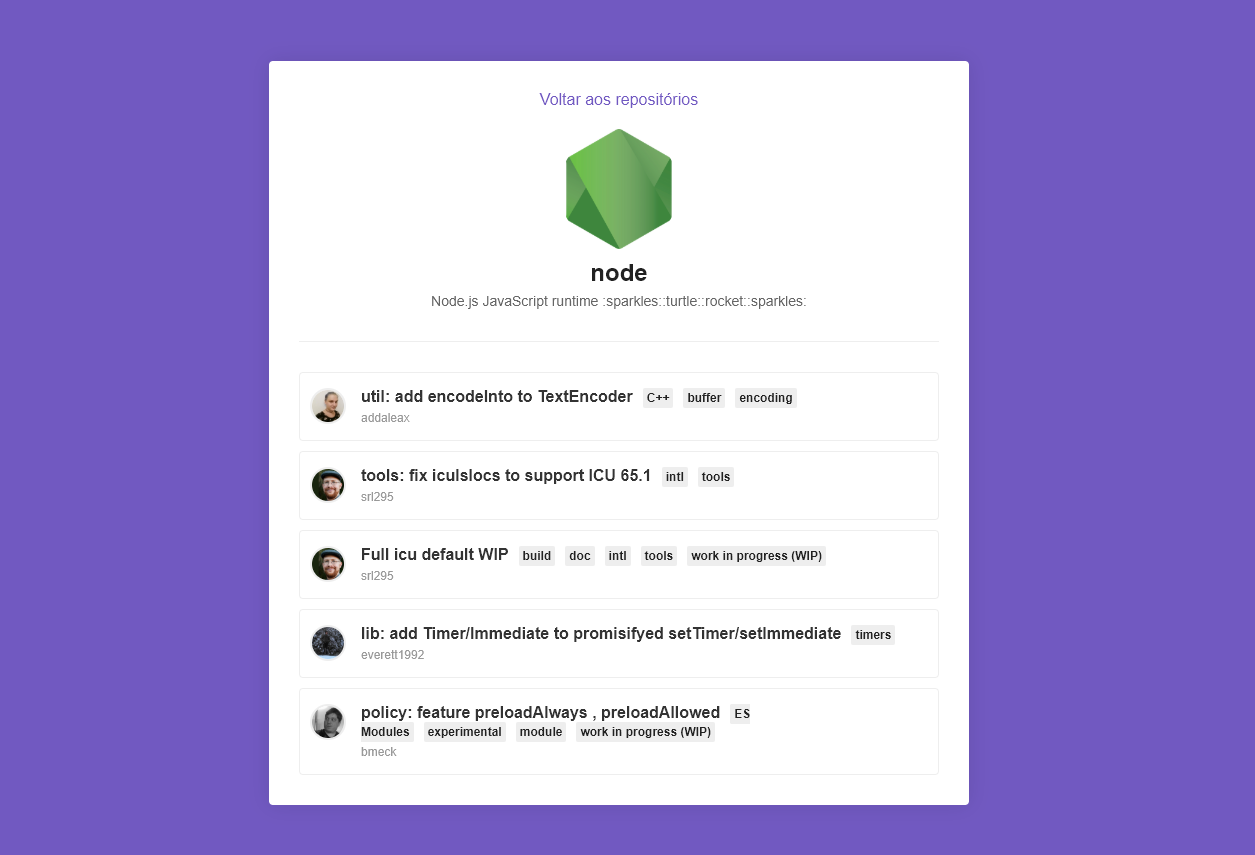
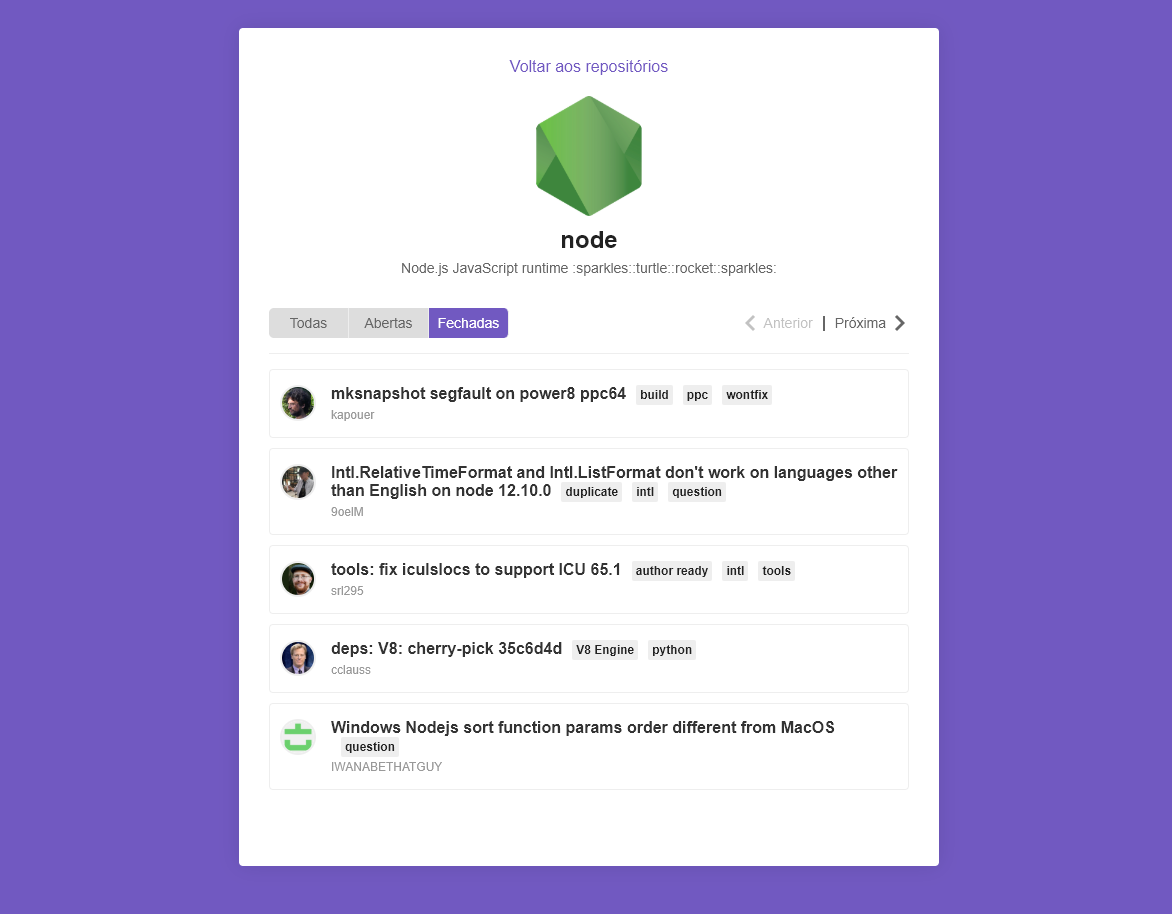
adicionado paginação e filtro de situação da issue

Changed region(s): [[0.1843, 0.0304, 0.7986, 0.9731]]

diff --git a/src/pages/Repository/index.js b/src/pages/Repository/index.js
@@ -1,24 +1,40 @@
 import React, { Component } from 'react';
 import { Link } from 'react-router-dom';
 import PropTypes from 'prop-types';
+import { FaChevronLeft, FaChevronRight } from 'react-icons/fa';
 import api from '../../services/api';
 
-import { Loading, Owner, IssueList } from './styles';
+import { Loading, Owner, IssueList, Pagination } from './styles';
 import Container from '../../components/Container';
+import RadioButton from '../../components/RadioButton';
 
 class Repository extends Component {
     constructor(props) {
         super(props);
 
+        this.handleStatus = this.handleStatus.bind(this);
+        this.loadIssues = this.loadIssues.bind(this);
+        this.previousPage = this.previousPage.bind(this);
+        this.nextPage = this.nextPage.bind(this);
+
         this.state = {
             repository: {},
             issues: {},
             loading: true,
+            status: 'closed',
+            page: 1,
         };
     }
 
-    async componentDidMount() {
+    componentDidMount() {
+        this.loadIssues();
+    }
+
+    async loadIssues() {
         const { match } = this.props;
+        const { status, page } = this.state;
+
+        this.setState({ loading: true });
 
         const repoName = decodeURIComponent(match.params.repository);
 
@@ -26,7 +42,8 @@ class Repository extends Component {
             api.get(`/repos/${repoName}`),
             api.get(`/repos/${repoName}/issues`, {
                 params: {
-                    state: 'open',
+                    state: status,
+                    page,
                     per_page: 5,
                 },
             }),
@@ -39,13 +56,37 @@ class Repository extends Component {
         });
     }
 
+    handleStatus(btn) {
+        this.setState(
+            {
+                status: btn.target.id,
+            },
+            this.loadIssues
+        );
+    }
+
+    previousPage() {
+        const { page } = this.state;
+
+        this.setState({ page: page - 1 }, this.loadIssues);
+    }
+
+    nextPage() {
+        const { page } = this.state;
+
+        this.setState({ page: page + 1 }, this.loadIssues);
+    }
+
     render() {
-        const { repository, issues, loading } = this.state;
+        const { repository, issues, loading, status, page } = this.state;
 
         if (loading) {
-            return <Loading>Carregando...</Loading>;
+            return (
+                <Container>
+                    <Loading>Carregando...</Loading>
+                </Container>
+            );
         }
-        console.log(issues);
 
         return (
             <Container>
@@ -58,6 +99,43 @@ class Repository extends Component {
                     <h1>{repository.data.name}</h1>
                     <p>{repository.data.description}</p>
                 </Owner>
+                <div id="toolbar">
+                    <RadioButton active={status}>
+                        <button
+                            onClick={this.handleStatus}
+                            type="button"
+                            id="all"
+                        >
+                            Todas
+                        </button>
+                        <button
+                            onClick={this.handleStatus}
+                            type="button"
+                            id="open"
+                        >
+                            Abertas
+                        </button>
+                        <button
+                            onClick={this.handleStatus}
+                            type="button"
+                            id="closed"
+                        >
+                            Fechadas
+                        </button>
+                    </RadioButton>
+                    <Pagination>
+                        <div disabled={page === 1} onClick={this.previousPage}>
+                            <FaChevronLeft />
+                            <span>Anterior</span>
+                        </div>
+                        <div id="pipe" />
+                        <div onClick={this.nextPage}>
+                            <span>Próxima</span>
+                            <FaChevronRight />
+                        </div>
+                    </Pagination>
+                </div>
+
                 <IssueList>
                     {issues.data.map(issue => (
                         <li key={String(issue.id)}>

diff --git a/src/pages/Repository/styles.js b/src/pages/Repository/styles.js
@@ -1,13 +1,13 @@
 import styled from 'styled-components';
 
 export const Loading = styled.div`
-    color: #fff;
+    color: #666;
     font-size: 30px;
     font-weight: bold;
     display: flex;
     justify-content: center;
     align-items: center;
-    height: 100vh;
+    height: 100%;
 `;
 
 export const Owner = styled.header`
@@ -43,10 +43,12 @@ export const Owner = styled.header`
 `;
 
 export const IssueList = styled.div`
-    padding-top: 30px;
-    margin-top: 30px;
+    padding-top: 15px;
+    margin-top: 15px;
     border-top: 1px solid #eee;
     list-style: none;
+    height: 455px;
+    overflow-y: auto;
 
     li {
         display: flex;
@@ -99,5 +101,41 @@ export const IssueList = styled.div`
                 color: #999;
             }
         }
+    }
+`;
+
+export const Pagination = styled.div.attrs(props => ({
+    disabled: props.disabled,
+}))`
+    height: 30px;
+    display: flex;
+    flex-direction: row;
+    justify-content: flex-end;
+    align-items: center;
+    font-size: 18px;
+    color: #666;
+
+    div {
+        display: flex;
+        justify-content: center;
+        align-items: center;
+
+        &[disabled] {
+            cursor: not-allowed;
+            opacity: 0.4;
+        }
+
+        span {
+            font-size: 14px;
+
+            user-select: none;
+            margin: 0px 5px;
+        }
+    }
+
+    #pipe {
+        border: 1px solid #666;
+        margin: 0px 5px;
+        height: 15px;
     }
 `;

diff --git a/src/components/RadioButton/index.js b/src/components/RadioButton/index.js
@@ -1,0 +1,36 @@
+import styled from 'styled-components';
+
+const RadioButton = styled.div.attrs(props => ({
+    type: 'submit',
+    disabled: props.loading,
+}))`
+    display: flex;
+    justify-content: flex-end;
+
+    & button:first-child {
+        border-top-left-radius: 5px;
+        border-bottom-left-radius: 5px;
+    }
+
+    & button:last-child {
+        border-top-right-radius: 5px;
+        border-bottom-right-radius: 5px;
+    }
+
+    button {
+        height: 30px;
+        width: 80px;
+        border: none;
+        border-right: 1px solid #eee;
+        color: #666;
+        font-size: 14px;
+        line-height: 1.4;
+    }
+
+    #${props => props.active} {
+        color: #fff;
+        background-color: #7159c1;
+    }
+`;
+
+export default RadioButton;

diff --git a/src/components/Container/index.js b/src/components/Container/index.js
@@ -6,7 +6,17 @@ const Container = styled.div`
     border-radius: 4px;
     box-shadow: 0 0 20px rgba(0, 0, 0, 0.1);
     padding: 30px;
-    margin: 80px auto;
+    margin: 40px auto;
+    height: calc(100vh - 100px);
+    overflow-y: auto;
+
+    #toolbar {
+        display: flex;
+        flex-direction: row;
+        justify-content: space-between;
+        align-items: center;
+        margin-top: 30px;
+    }
 
     h1 {
         font-size: 20px;

diff --git a/src/styles/global.js b/src/styles/global.js
@@ -10,6 +10,7 @@ export default createGlobalStyle`
 
     html, body, #root {
         min-height: 100%;
+        overflow: auto;
     }
 
     body {
